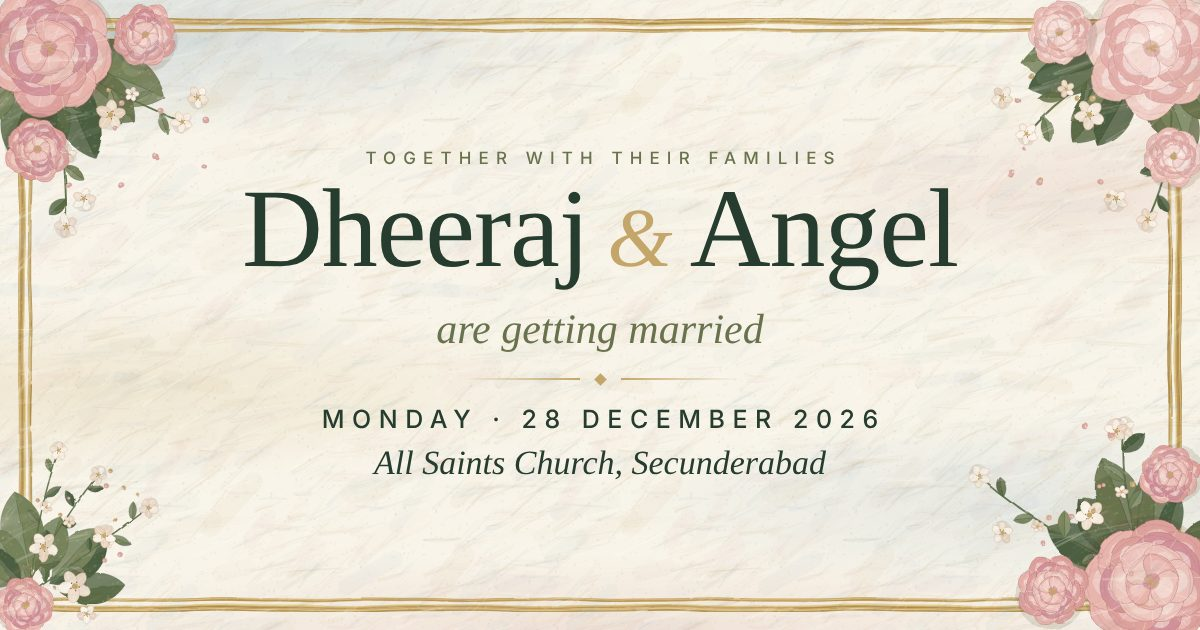
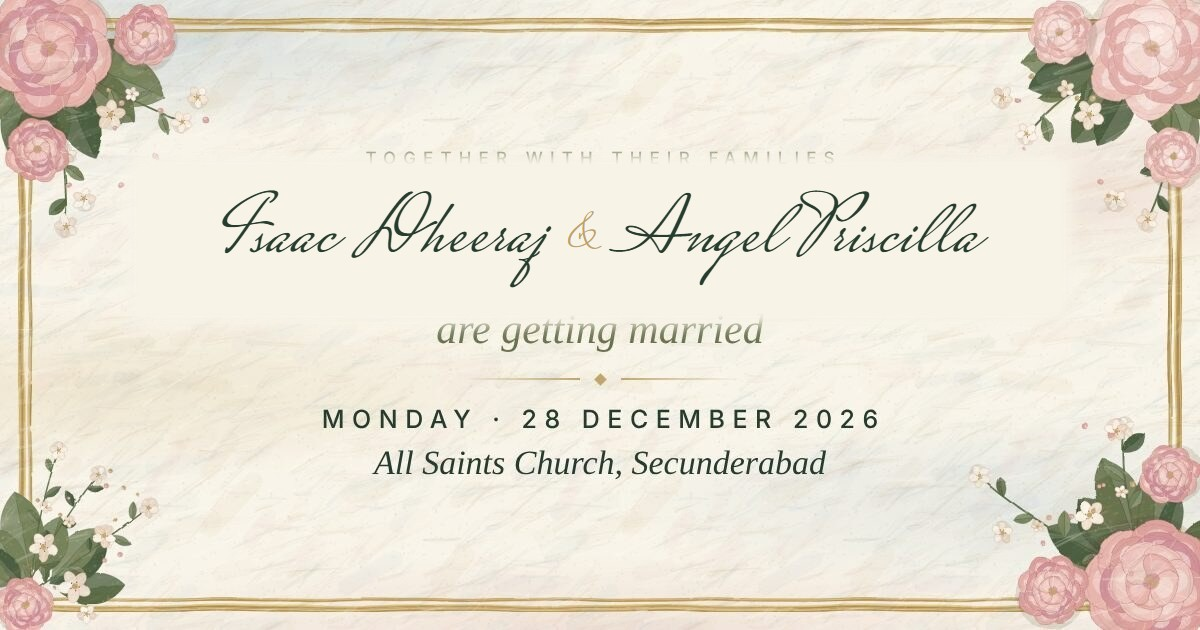
feat: overwrite all og image versions with calligraphy script card and set fresh share-card.jpg URL to bypass mobile WhatsApp cache

diff --git a/index.html b/index.html
@@ -12,7 +12,8 @@
   <meta property="og:title" content="Isaac Dheeraj &amp; Angel Priscilla are getting married">
   <meta property="og:description" content="28 December 2026 · All Saints Church, Secunderabad">
   <meta property="og:url" content="https://dheeraj-and-angel.vercel.app/">
-  <meta property="og:image" content="https://dheeraj-and-angel.vercel.app/og-image-v4.jpg">
+  <meta property="og:image" content="https://dheeraj-and-angel.vercel.app/share-card.jpg">
+  <meta property="og:image:secure_url" content="https://dheeraj-and-angel.vercel.app/share-card.jpg">
   <meta property="og:image:type" content="image/jpeg">
   <meta property="og:image:width" content="1200">
   <meta property="og:image:height" content="630">
@@ -21,7 +22,7 @@
   <meta name="twitter:card" content="summary_large_image">
   <meta name="twitter:title" content="Isaac Dheeraj &amp; Angel Priscilla are getting married">
   <meta name="twitter:description" content="28 December 2026 · All Saints Church, Secunderabad">
-  <meta name="twitter:image" content="https://dheeraj-and-angel.vercel.app/og-image-v4.jpg">
+  <meta name="twitter:image" content="https://dheeraj-and-angel.vercel.app/share-card.jpg">
 
   <!-- ===== FAVICON ===== -->
   <link rel="icon" href="/favicon.ico" sizes="48x48">
